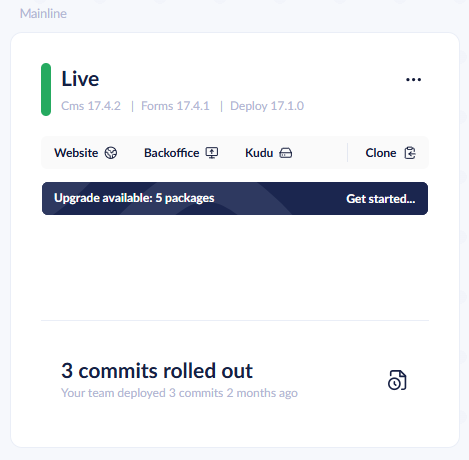
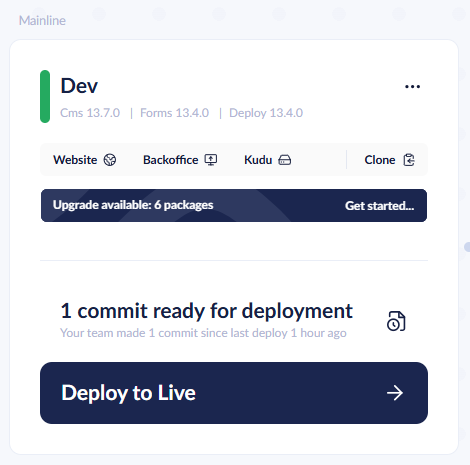
Replace Upgrade available screenshots with the updated UI

diff --git a/umbraco-cloud/optimize-and-maintain-your-site/manage-product-upgrades/product-upgrades/minor-upgrades.md b/umbraco-cloud/optimize-and-maintain-your-site/manage-product-upgrades/product-upgrades/minor-upgrades.md
@@ -51,7 +51,7 @@ Umbraco reserves the right to patch critical vulnerabilities. This ensures the U
 
 When a newer version of a product is available for your project, an **Upgrade available** banner is shown in the Cloud Portal. The banner appears on the left-most mainline environment card. Project administrators select **Get started** on the banner to review and start the upgrade.
 
-<figure><img src="../../../.gitbook/assets/cloud-upgrade-available-banner.png" alt="Upgrade available banner on the Live environment card showing 5 packages"><figcaption><p>The Upgrade available banner on an environment card</p></figcaption></figure>
+<figure><img src="../../../.gitbook/assets/cloud-upgrade-available-banner.png" alt="Upgrade available banner on the Dev environment card showing 6 packages"><figcaption><p>The Upgrade available banner on an environment card</p></figcaption></figure>
 
 The banner offers any higher minor or patch version within the major version your project runs. Major version upgrades are never offered by the banner. See the [Major Upgrades](major-upgrades/README.md) article for how to upgrade to a new major version.
 
@@ -67,13 +67,13 @@ The following products are upgraded through the banner:
 
 All eligible products are upgraded in a single run. The banner names one or two products, or shows a package count when more are available. The confirmation dialog lists every package with its current and target version.
 
+<figure><img src="../../../.gitbook/assets/cloud-upgrade-available-dialog.png" alt="Confirmation dialog listing six packages with current and target versions, and the three steps of the upgrade"><figcaption><p>The confirmation dialog listing the packages to upgrade</p></figcaption></figure>
+
 The upgrade is applied to the left-most mainline environment only. Test the upgrade there, and then deploy the changes to the next environments yourself. Pending changes between environments do not block the upgrade. The upgrade commit is added on top of the pending changes and is included in the next deployment.
 
 {% hint style="warning" %}
 Projects with a single Live environment can also upgrade from the banner. As there is no other environment to test on, the upgrade is applied directly to Live. The site restarts during the upgrade. The confirmation dialog warns about the restart and links to the version-specific upgrade notes.
 {% endhint %}
-
-<figure><img src="../../../.gitbook/assets/cloud-upgrade-available-dialog-single-environment.png" alt="Confirmation dialog listing five packages with current and target versions, and a warning that the site restarts"><figcaption><p>The confirmation dialog on a single-environment project</p></figcaption></figure>
 
 The banner is independent of the **Automatic Minor Upgrades** and **Automatic Patch Upgrades** settings. Selecting **Get started** is an explicit action, and the upgrade runs even when automatic upgrades are disabled.
 

diff --git a/umbraco-cloud/release-notes/overview-2026/2026-09-releasenotes.md b/umbraco-cloud/release-notes/overview-2026/2026-09-releasenotes.md
@@ -9,7 +9,7 @@
 
 The **Upgrade available** banner on the left-most environment card in the Cloud Portal has been extended. Project administrators use the banner to upgrade a project on demand, independent of the automatic upgrade settings.
 
-<figure><img src="../../.gitbook/assets/cloud-upgrade-available-banner.png" alt="Upgrade available banner on the Live environment card showing 5 packages"><figcaption><p>The Upgrade available banner on an environment card</p></figcaption></figure>
+<figure><img src="../../.gitbook/assets/cloud-upgrade-available-banner.png" alt="Upgrade available banner on the Dev environment card showing 6 packages"><figcaption><p>The Upgrade available banner on an environment card</p></figcaption></figure>
 
 The following has changed:
 
@@ -18,7 +18,7 @@ The following has changed:
 * **Single-environment projects can upgrade.** Projects with only a Live environment were previously asked to add an environment first. Live is now upgraded directly. The confirmation dialog warns that the site restarts during the upgrade and links to the version-specific upgrade notes.
 * **Pending changes no longer block the upgrade.** The upgrade commit is added on top of the pending changes on the environment and is included in the next deployment.
 
-<figure><img src="../../.gitbook/assets/cloud-upgrade-available-dialog-single-environment.png" alt="Confirmation dialog listing five packages with current and target versions, and a warning that the site restarts"><figcaption><p>The confirmation dialog on a single-environment project</p></figcaption></figure>
+<figure><img src="../../.gitbook/assets/cloud-upgrade-available-dialog.png" alt="Confirmation dialog listing six packages with current and target versions, and the three steps of the upgrade"><figcaption><p>The confirmation dialog listing the packages to upgrade</p></figcaption></figure>
 
 Major version upgrades are still not offered by the banner. On projects with more than one environment, the banner still upgrades the left-most mainline environment only. You test the upgrade there and deploy onward yourself.
 
